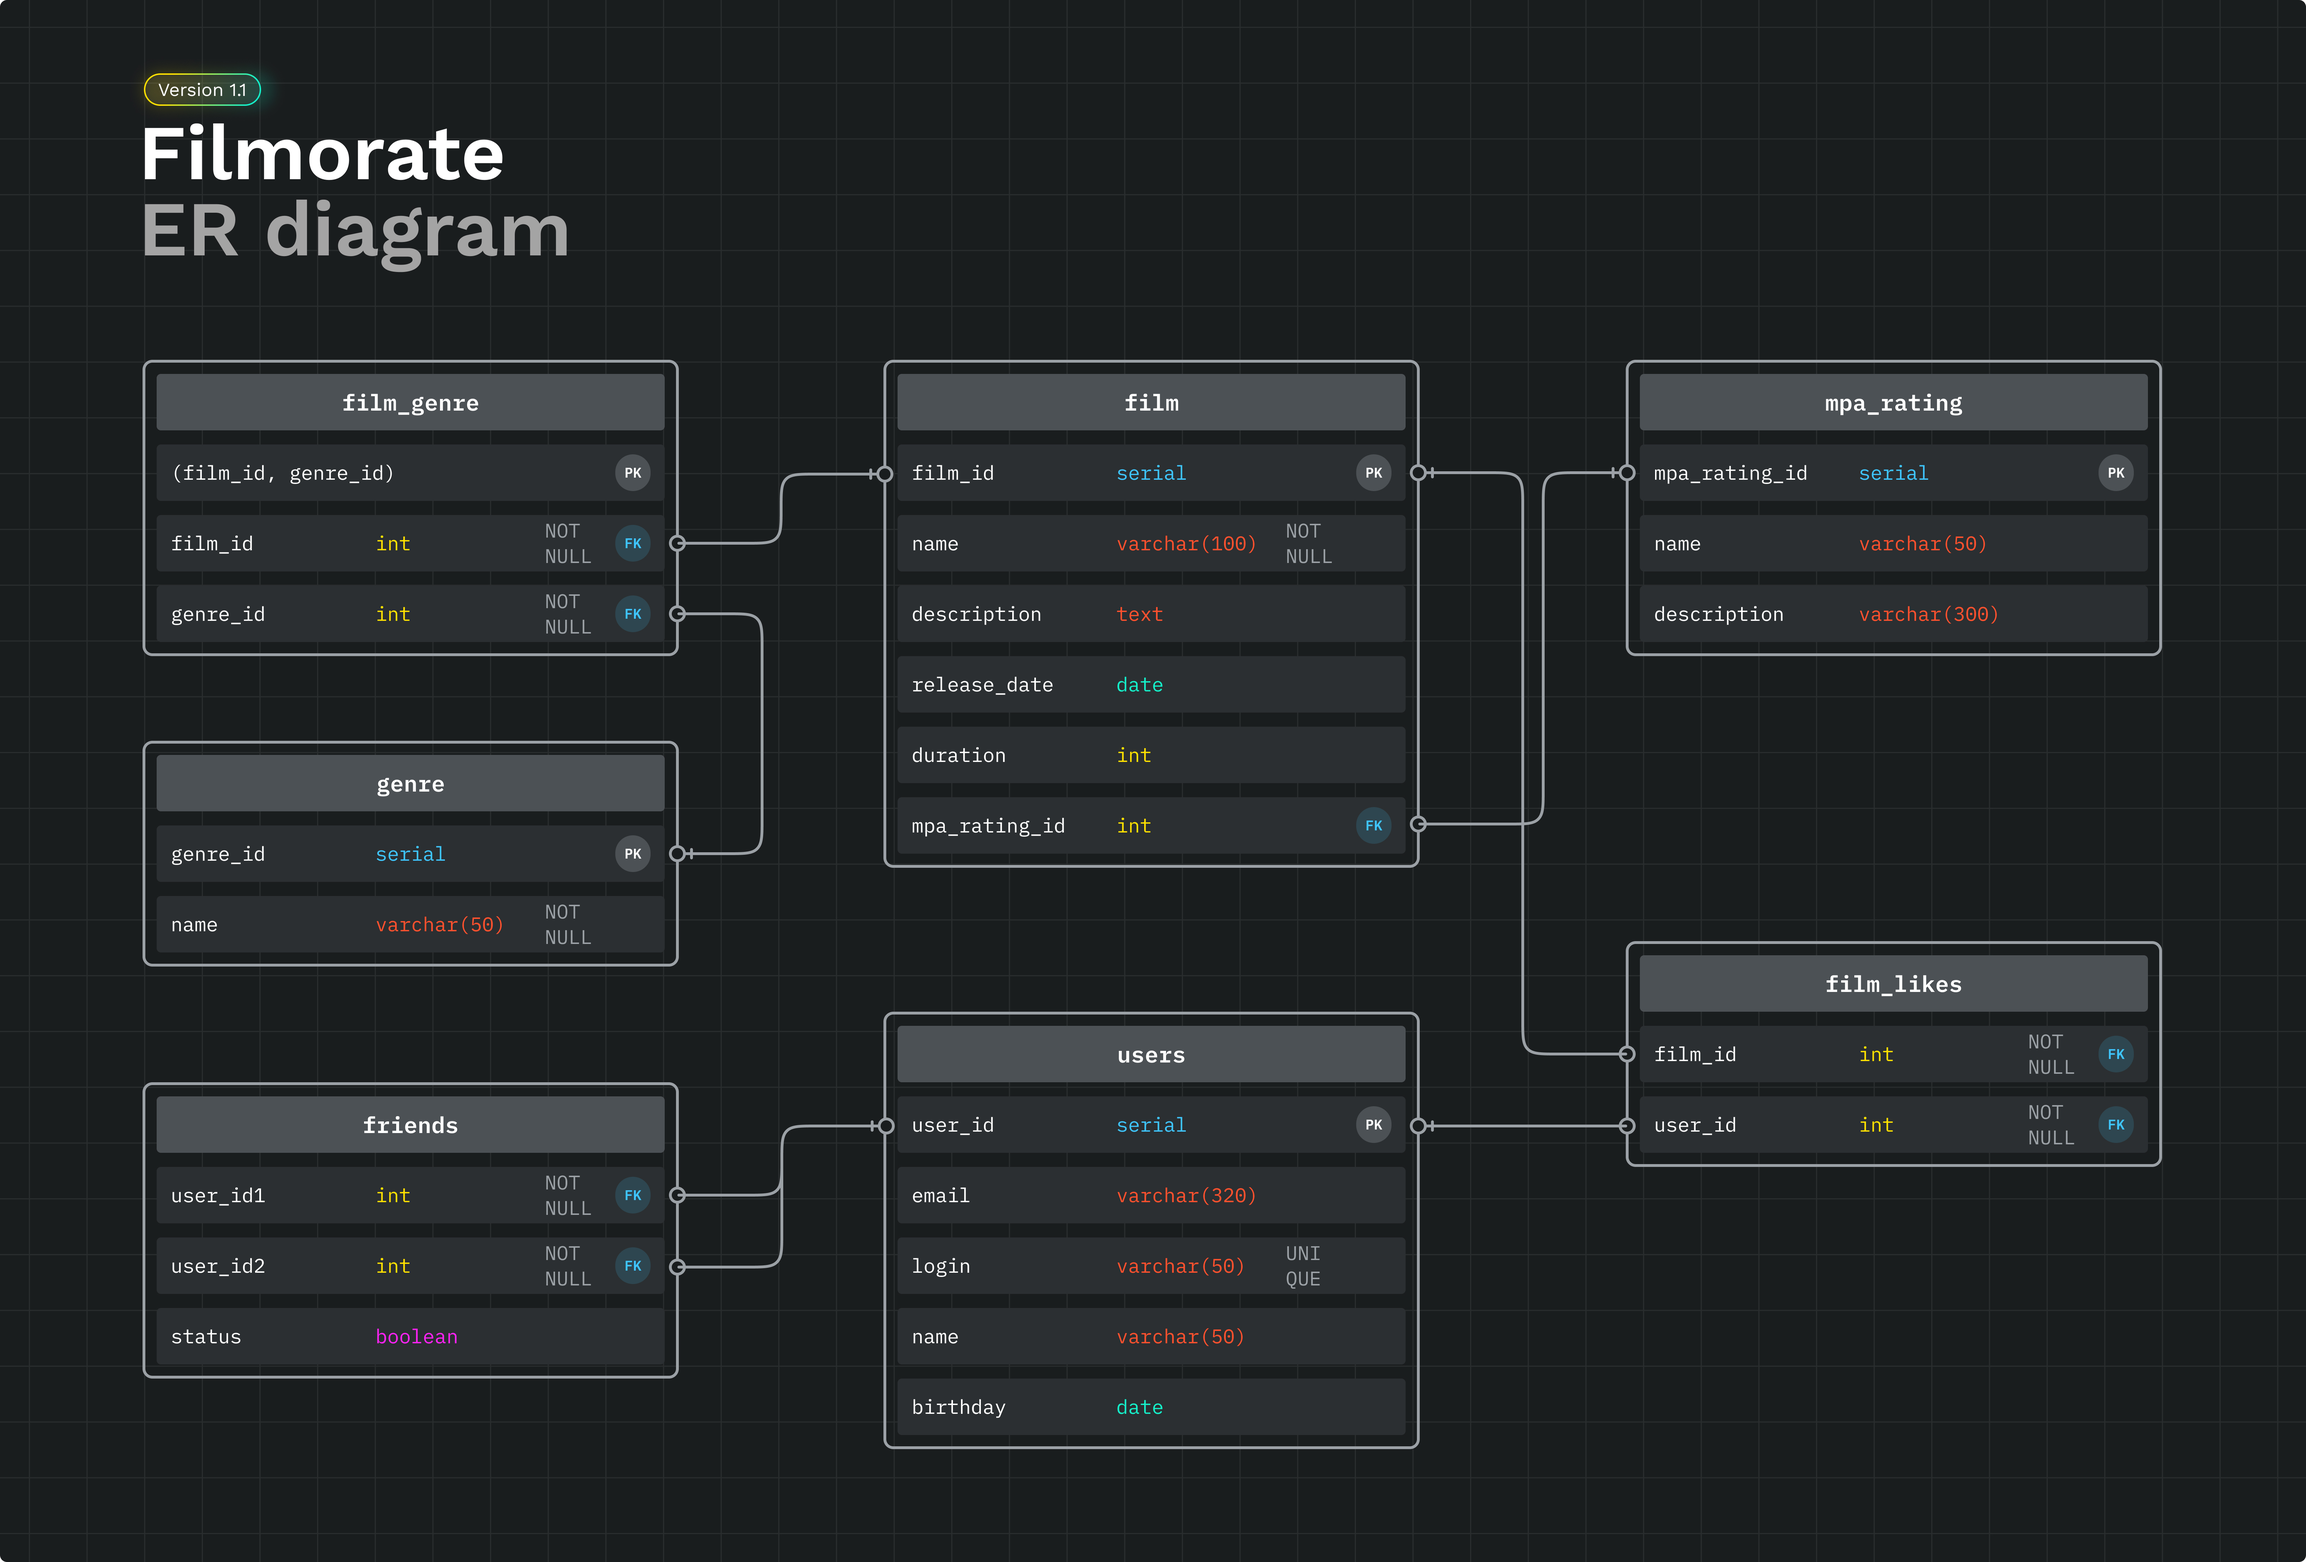
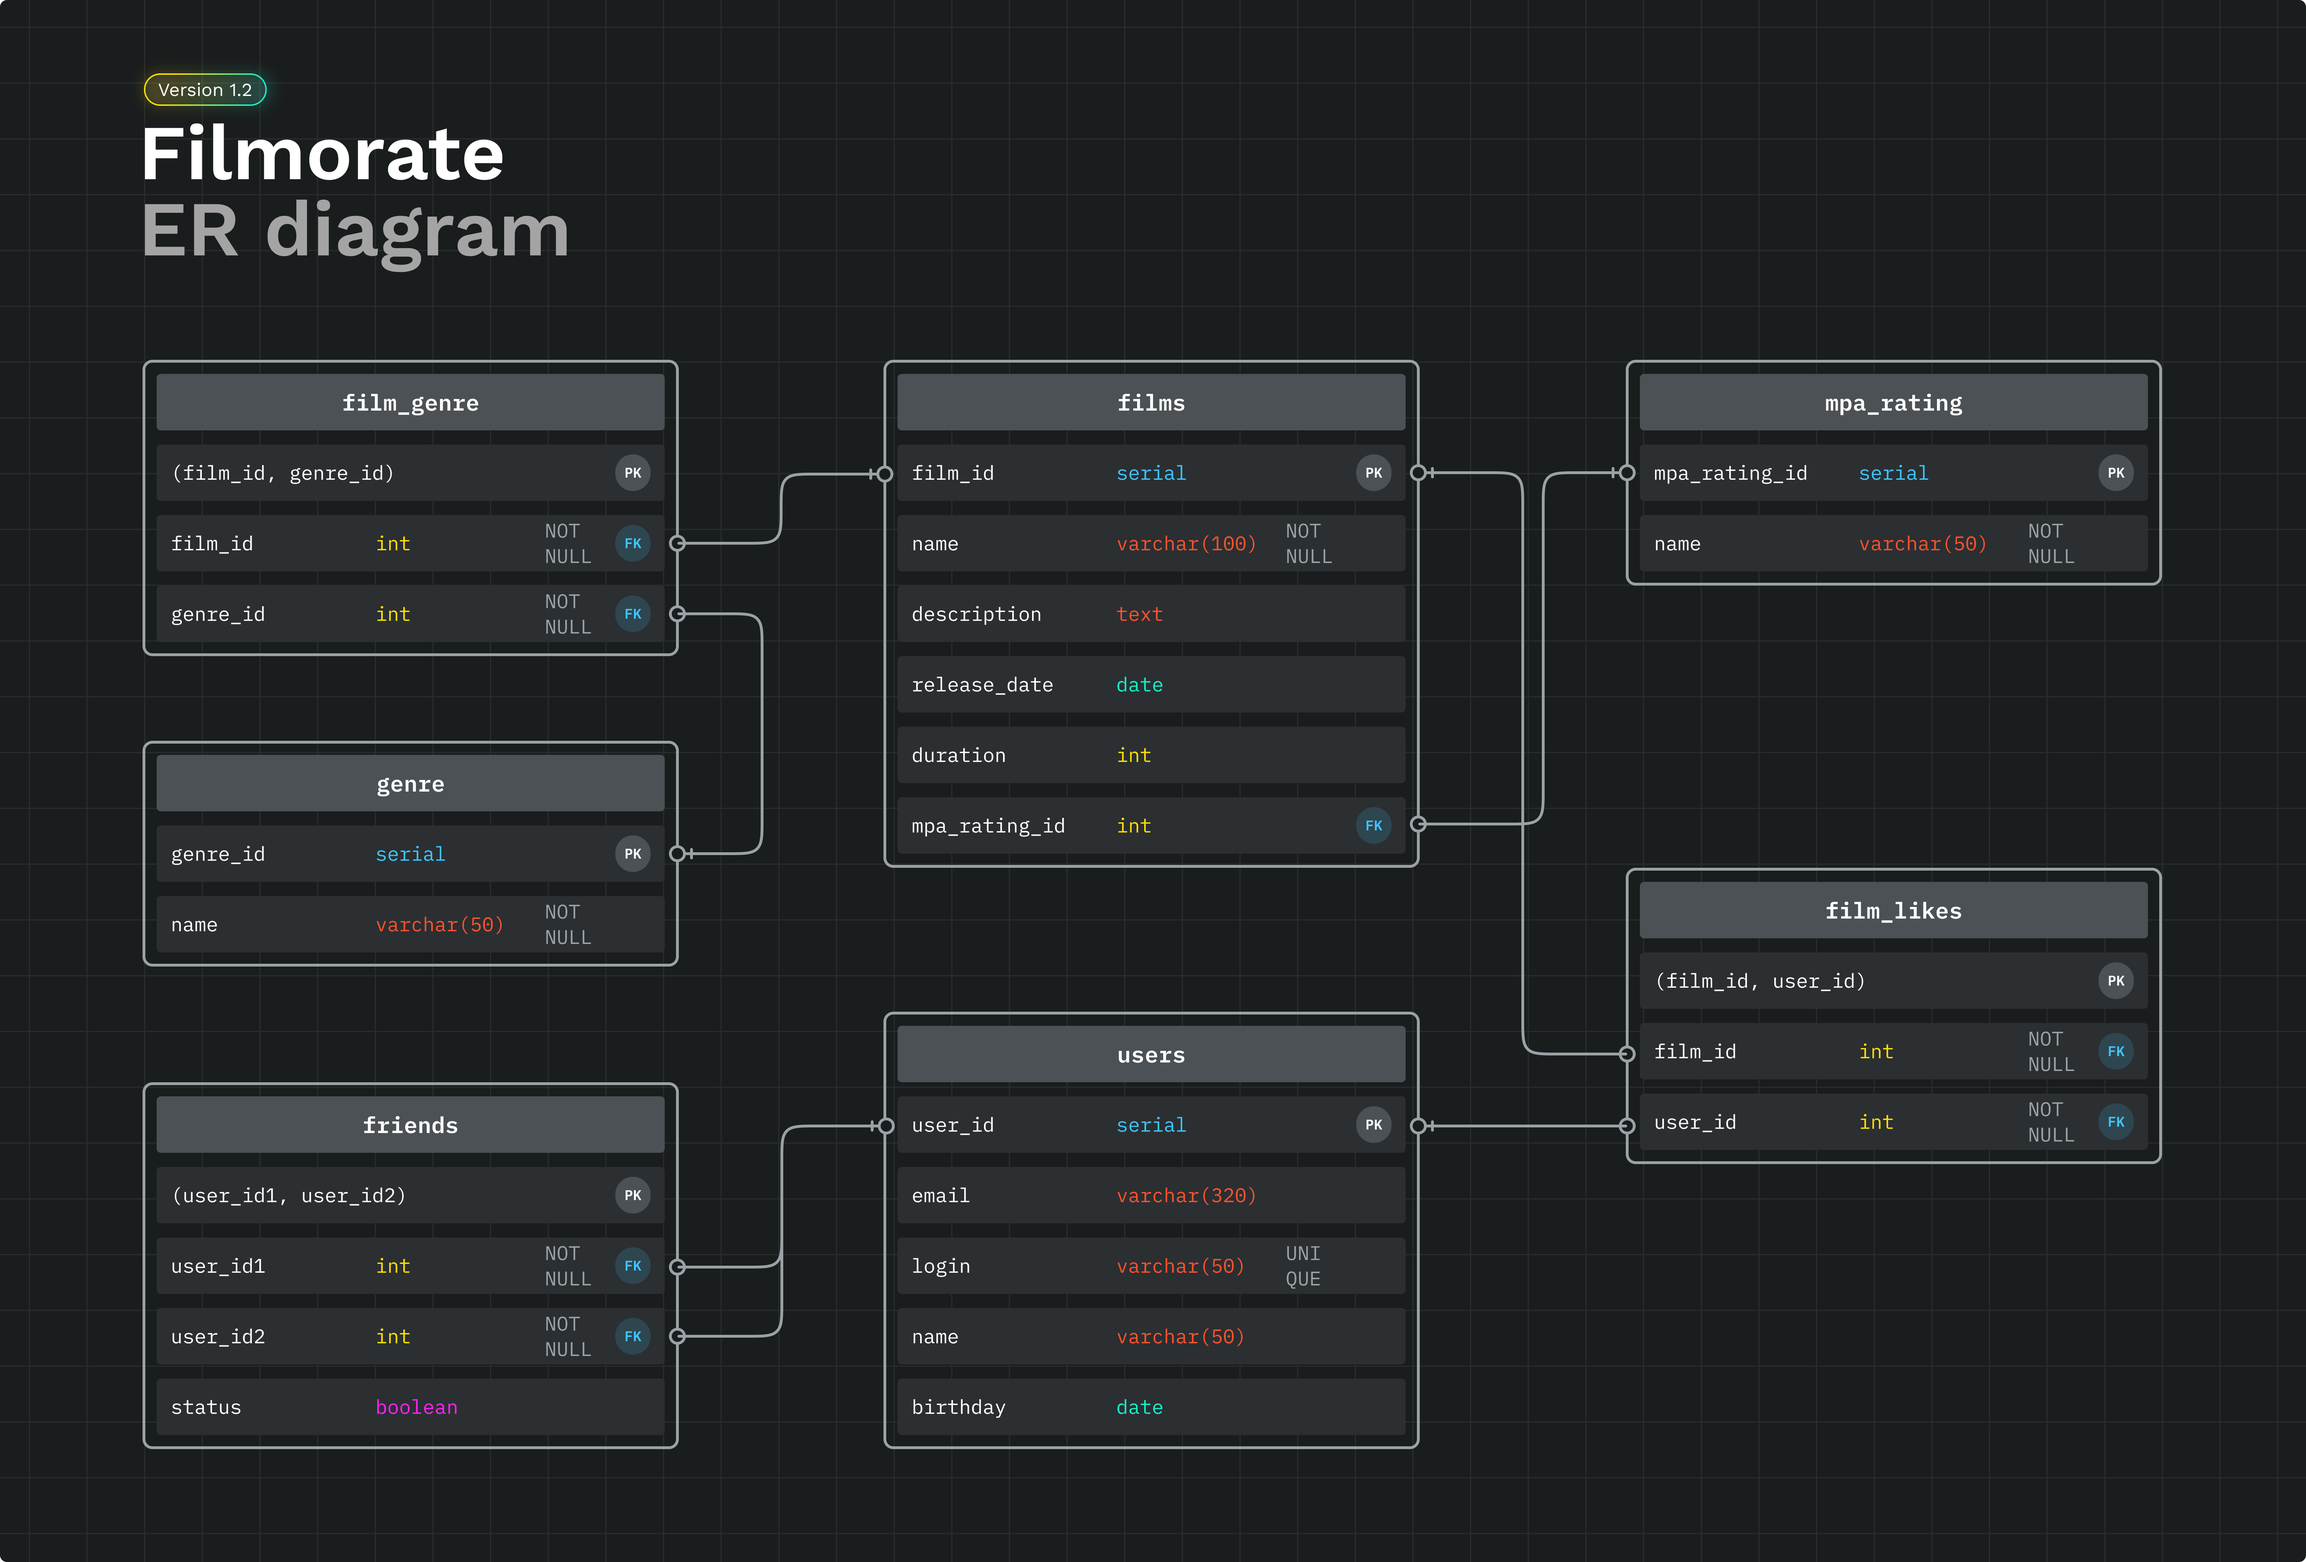
Изменения в ER-диаграмме и README

diff --git a/README.md b/README.md
@@ -24,30 +24,10 @@ FROM users;
 
 ```sql
 --Выборка ТОП-5 наиболее популярных фильмов по лайкам
-SELECT name,
-       COUNT(*) AS likes_count
-FROM films
-JOIN film_likes ON films.film_id = film_likes.film_id
-GROUP BY films.film_id
-ORDER BY likes_count DESC
-LIMIT 5;
+SELECT * 
+FROM films f 
+LEFT JOIN film_likes fl ON f.film_id = fl.film_id 
+GROUP BY f.film_id 
+ORDER BY COUNT(fl.user_id) DESC 
+LIMIT 10;
 ```
-
-```sql
-SELECT name
-FROM users as u
-JOIN friends f ON u.user_id = f.user_id1
-WHERE f.user_id2 = 2
-  AND f.status = TRUE
-  AND EXISTS
-    (SELECT 1
-     FROM friends as f2
-     WHERE f2.user_id1 = 1
-       AND f2.user_id2 = f.user_id2
-       AND f2.status = TRUE )
-ORDER BY name;
-```
-
-Последний запрос выберет имена всех друзей, которые есть у пользователя с ID 2 и которые также являются друзьями пользователя с ID 1. Результат будет отсортирован по именам пользователей в алфавитном порядке.
-Чтобы оптимизировать производительность, можно использовать оператор EXISTS с фиктивным столбцом 1 **(SELECT 1)** в подзапросе, вместо выборки реальных столбцов. Это позволяет избежать чтения и выборки всех строк из таблицы, которая не нужна для определения наличия строк, удовлетворяющих условию.
-
